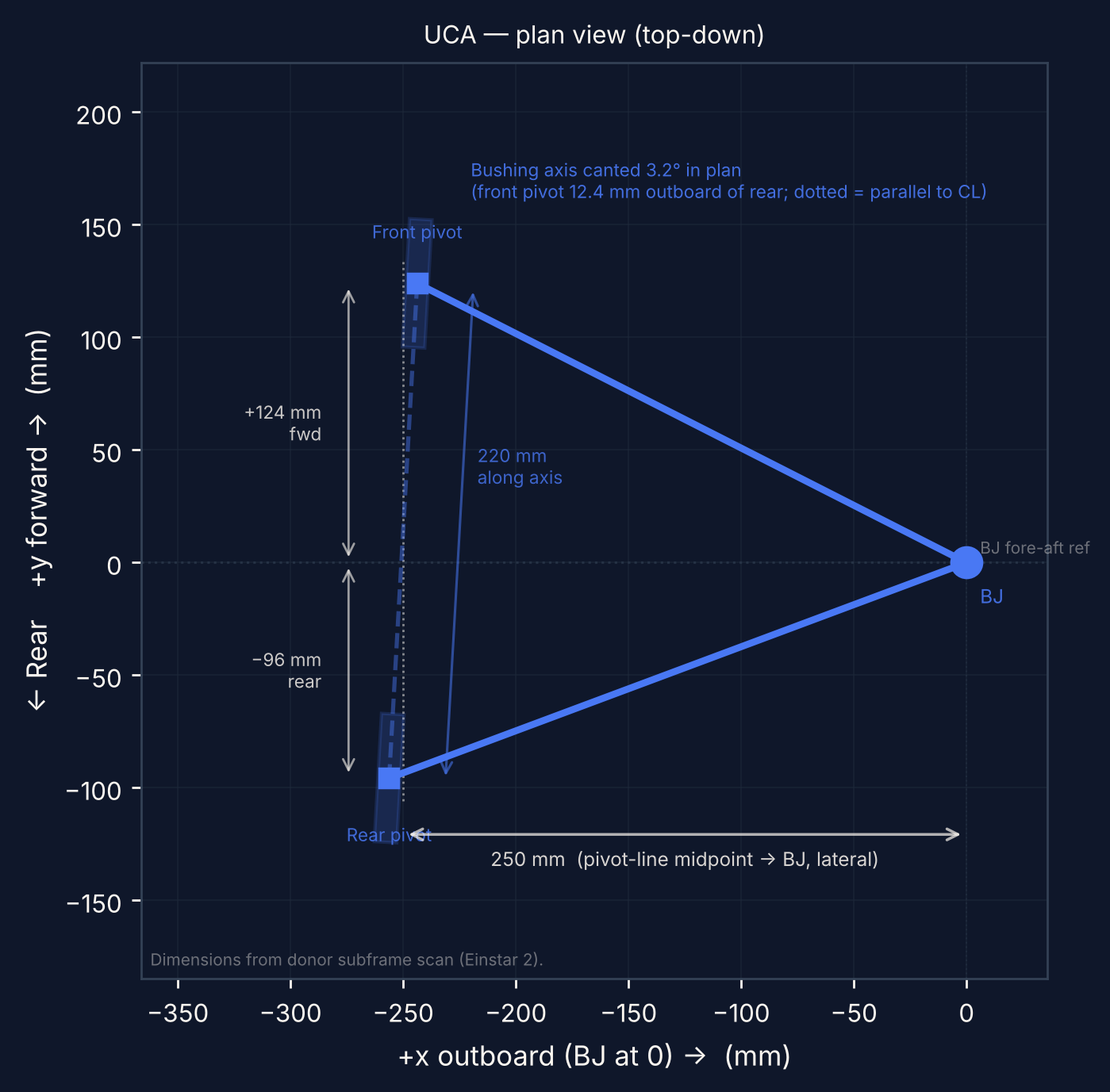
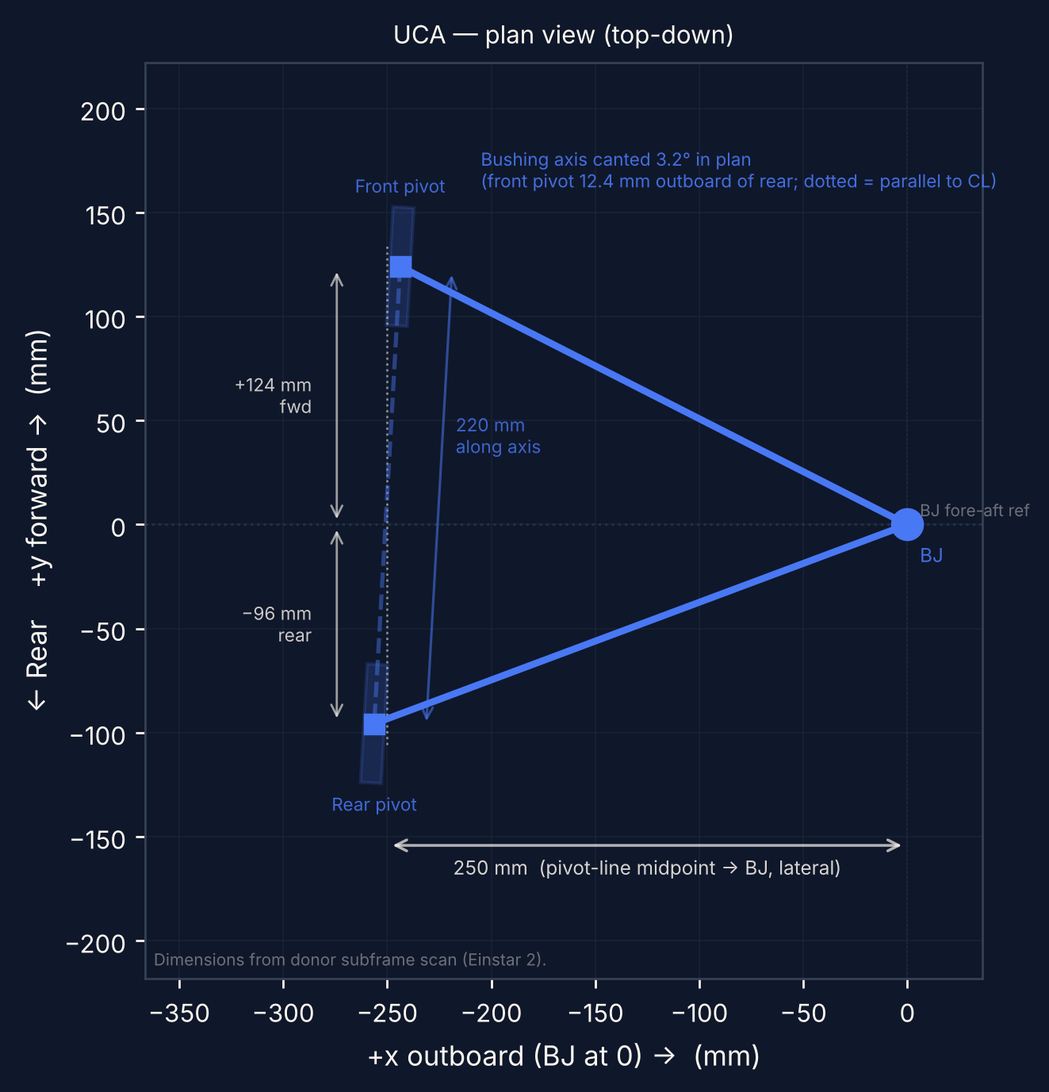
A40: fixes from the constants review
Rear-suspension rpm table renders (4 columns); tyre-poke numbers in the
narrowing analysis are derived; UCA caption and bracket positions
(pivot midpoint 273 mm, front 279 / rear 267 with the cant); plot
labels no longer sit on arrows or bushings.

Claude-Session: https://claude.ai/code/session_011vJqfmcNbUuKDjwhSF1hJ4

diff --git a/scripts/plot_geometry_reference.py b/scripts/plot_geometry_reference.py
@@ -2412,10 +2412,10 @@ def _draw_arm_core(
 
     # Inner pivot markers — rectangles representing bushing extents
     pw = SUSP["pivot_width"]  # visual lateral width for all pivots
-    for ip, tag, y_off, bush_len in zip(
+    for ip, tag, sgn, bush_len in zip(
         (inner_f, inner_r),
         ("Front pivot", "Rear pivot"),
-        (20, -28),
+        (1, -1),
         (bushing_lengths or (0, 0)),
     ):
         if bush_len > 0:
@@ -2434,14 +2434,17 @@ def _draw_arm_core(
             )
             ax.add_patch(rect)
         ax.plot(*ip, "s", color=color, markersize=7, zorder=5)
+        # Label just beyond the bushing end (front above, rear below), so it
+        # never sits on the bushing rectangle.
         ax.text(
             ip[0],
-            ip[1] + y_off,
+            ip[1] + sgn * (max(bush_len, 20) / 2 + 5),
             tag,
             fontsize=6.5,
             color=color,
             alpha=0.85,
             ha="center",
+            va="bottom" if sgn > 0 else "top",
         )
 
     # BJ marker
@@ -2598,7 +2601,7 @@ def plot_lca_plan():
     # ── dimension callouts ──────────────────────────────────────────
     lca_lat = abs(lca_f[0])  # 336.25 mm
     # Lateral: both pivots → BJ  (both at same inboard distance)
-    y_bot = lca_r[1] - 30  # below rear pivot
+    y_bot = lca_r[1] - SUSP["lca_r_bushing"] / 2 - 32  # below the rear pivot label
     ax.annotate(
         "",
         xy=(bj[0], y_bot),
@@ -2615,61 +2618,35 @@ def plot_lca_plan():
         alpha=0.85,
     )
 
-    # Fore-aft: front pivot rearward of BJ (−25 mm)
-    ax.annotate(
-        "",
-        xy=(lca_f[0] - 15, bj[1]),
-        xytext=(lca_f[0] - 15, lca_f[1]),
-        arrowprops=dict(arrowstyle="<->", color=TEXT, lw=0.8, alpha=0.6),
-    )
-    ax.text(
-        lca_f[0] - 28,
-        lca_f[1] / 2,
-        f"−{SUSP['lca_bj_fa']:.0f} mm\nrear",
-        fontsize=6.5,
-        color=TEXT,
-        ha="right",
-        va="center",
-        alpha=0.8,
-    )
-
-    # Fore-aft: rear pivot rearward of BJ (−348.5 mm)
+    # Fore-aft dimensions: one column each (arrow x), label placed left of
+    # its own arrow with a fixed gap in points, at a height where no other
+    # arrow passes, so no label sits on an arrow.
     rear_fa_total = SUSP["lca_bj_fa"] + SUSP["lca_fa_span"]
-    ax.annotate(
-        "",
-        xy=(lca_r[0] - 40, bj[1]),
-        xytext=(lca_r[0] - 40, lca_r[1]),
-        arrowprops=dict(arrowstyle="<->", color=TEXT, lw=0.8, alpha=0.6),
-    )
-    ax.text(
-        lca_r[0] - 53,
-        lca_r[1] / 2,
-        f"−{rear_fa_total:.0f} mm\nrear",
-        fontsize=6.5,
-        color=TEXT,
-        ha="right",
-        va="center",
-        alpha=0.8,
-    )
-
-    # Fore-aft span between pivots (= lca_fa_span = 322.5 mm)
-    mid_x = lca_r[0] - 70
-    ax.annotate(
-        "",
-        xy=(mid_x, lca_f[1]),
-        xytext=(mid_x, lca_r[1]),
-        arrowprops=dict(arrowstyle="<->", color=GOLD, lw=0.9, alpha=0.55),
-    )
-    ax.text(
-        mid_x - 8,
-        (lca_f[1] + lca_r[1]) / 2,
-        f"{SUSP['lca_fa_span']:.0f} mm\nspan",
-        fontsize=6.5,
-        color=GOLD,
-        ha="right",
-        va="center",
-        alpha=0.8,
-    )
+    x_front = lca_f[0] - 22   # −25 mm: front pivot rearward of BJ
+    x_rear = lca_r[0] - 95    # −348 mm: rear pivot rearward of BJ
+    x_span = lca_r[0] - 155   # 322 mm: span between pivots
+    for x_arr, y0, y1, y_lab, text, col, alpha in [
+        (x_front, bj[1], lca_f[1], lca_f[1] / 2, f"−{SUSP['lca_bj_fa']:.0f} mm\nrear", TEXT, 0.6),
+        (x_rear, bj[1], lca_r[1], lca_r[1] * 0.62, f"−{rear_fa_total:.0f} mm\nrear", TEXT, 0.6),
+        (x_span, lca_f[1], lca_r[1], (lca_f[1] + lca_r[1]) / 2, f"{SUSP['lca_fa_span']:.0f} mm\nspan", GOLD, 0.55),
+    ]:
+        ax.annotate(
+            "",
+            xy=(x_arr, y0),
+            xytext=(x_arr, y1),
+            arrowprops=dict(arrowstyle="<->", color=col, lw=0.8, alpha=alpha),
+        )
+        ax.annotate(
+            text,
+            xy=(x_arr, y_lab),
+            xytext=(-5, 0),
+            textcoords="offset points",
+            fontsize=6.5,
+            color=col,
+            ha="right",
+            va="center",
+            alpha=0.85,
+        )
 
     # BJ reference lines
     ax.axhline(bj[1], color=GRID2, lw=0.9, alpha=0.55, linestyle=":")
@@ -2682,7 +2659,7 @@ def plot_lca_plan():
     ax.set_ylabel("← Rear    +y forward →  (mm)")
     ax.set_aspect("equal")
     pad = 40
-    left_pad = 110  # extra room for inboard-side fa-offset labels
+    left_pad = 215  # extra room for inboard-side fa-offset labels
     all_x = [bj[0], lca_f[0], lca_r[0], cov_pt[0], arb_pt[0]]
     all_y = [bj[1] + 20, lca_f[1], lca_r[1], y_bot - 28, max(cov_pt[1], arb_pt[1]) + 45]
     ax.set_xlim(min(all_x) - left_pad, max(all_x) + pad)
@@ -2716,7 +2693,7 @@ def plot_uca_plan():
 
     uca_lat = abs(mid_lat)  # 250 mm, UBJ -> pivot-line midpoint
     span = np.linalg.norm(uca_f - uca_r)  # 220 mm along the axis
-    y_bot = uca_r[1] - 25
+    y_bot = uca_r[1] - SUSP["uca_bushing"] / 2 - 30  # below the rear pivot label
 
     # Lateral: pivot-line midpoint -> BJ
     ax.annotate(
@@ -2783,7 +2760,7 @@ def plot_uca_plan():
     ax.plot([mid_lat, mid_lat], [uca_r[1] - 10, uca_f[1] + 10], color=TEXT, lw=0.8,
             ls=":", alpha=0.5, zorder=2)
     ax.text(
-        mid_lat + 30,
+        mid_lat + 45,
         uca_f[1] + 36,
         f"Bushing axis canted {cant_deg:.1f}° in plan\n"
         f"(front pivot {2 * dlat:.1f} mm outboard of rear; dotted = parallel to CL)",

diff --git a/scripts/a40_constants.py b/scripts/a40_constants.py
@@ -182,6 +182,14 @@ def derive(i):
     put("a40_stock_outer_edge", (i["a40_stock_track"] + i["a40_stock_tyre_width"]) / 2, "mm", "locked", decimals=1)
     put("tyre_inner_edge", ht - i["tyre_width"] / 2, "mm", "working", decimals=1)
     put("a40_stock_inner_edge", (i["a40_stock_track"] - i["a40_stock_tyre_width"]) / 2, "mm", "locked", decimals=1)
+    put("tyre_outer_gain", oo - a40_out, "mm", "working", "Nominal outer-to-outer minus stock A40.",
+        decimals=0, signed=True)
+    put("tyre_outer_gain_exact", t + i["tyre_width"] - a40_out, "mm", "working",
+        "Exact-track outer-to-outer minus stock A40.", decimals=0, signed=True)
+    put("tyre_poke_rounding", abs(t - tn) / 2, "mm", "working",
+        "Per-side poke difference between the exact and nominal track.", decimals=0)
+    put("tyre_inner_shift", (i["a40_stock_track"] - i["a40_stock_tyre_width"]) / 2 - (ht - i["tyre_width"] / 2),
+        "mm", "working", "How much further inboard the inner tyre edge sits than stock.", decimals=0)
 
     # Rear
     rht = put("rear_half_track", i["rear_track"] / 2, "mm", "locked")
@@ -268,6 +276,13 @@ def derive_geometry(i, g):
         note="Roll travel at the nominal roll target + amplified road input.")
     put("travel_budget_hi", g["roll_travel_wheel"]["value"] + amp_hi, "mm", decimals=0,
         note="Roll travel at the nominal roll target + amplified road input.")
+    half = g["uca_cant_offset"]["value"] / 2
+    put("uca_cant_half", half, "mm", decimals=1,
+        note="Half the plan-cant offset: each UCA pivot sits this far either side of the pivot-line midpoint.")
+    put("uca_pivot_front", g["uca_pivot"]["value"] + half, "mm", decimals=0,
+        note="Front UCA pivot from CL (midpoint + half the cant offset).")
+    put("uca_pivot_rear", g["uca_pivot"]["value"] - half, "mm", decimals=0,
+        note="Rear UCA pivot from CL (midpoint − half the cant offset).")
     put("roll_arm_lo", i["cg_height"] - g["roll_axis_rc_hi"]["value"], "mm", decimals=0,
         note="CG height − roll-axis height (rear RC high end).")
     put("roll_arm_hi", i["cg_height"] - g["roll_axis_rc_lo"]["value"], "mm", decimals=0,
@@ -482,6 +497,9 @@ def run_self_tests():
         ("shaft 5.4, joints 2.4", d["shaft_angle"].raw() == "5.4" and d["ujoint_front"].raw() == "2.4"),
         ("Ackermann 17.40", d["ackermann_knuckle"].raw() == "17.40"),
         ("poke 35 (37 exact)", v("tyre_poke") == 35 and v("tyre_poke_exact") == 37),
+        ("outer +70 (+74 exact), rounding 2, inner shift 35",
+         d["tyre_outer_gain"].raw() == "+70" and d["tyre_outer_gain_exact"].raw() == "+74"
+         and v("tyre_poke_rounding") == 2 and v("tyre_inner_shift") == 35),
         ("format: half-up, minus sign", format_number(0.125, 2) == "0.13" and format_number(-19.1, 1) == "−19.1"
          and format_number(15.8, 1, signed=True) == "+15.8" and format_number(2886, round_to=10) == "2890"),
     ]

diff --git a/tickets/A40-008-use-constants.md b/tickets/A40-008-use-constants.md
@@ -1,7 +1,7 @@
 ---
 id: A40-008
 title: Replace hard-coded numbers with constants
-status: in-progress
+status: review
 owner: constants agent
 reviewer: independent reviewer agent (2026-10-24, did not implement)
 blocked_by: A40-007
@@ -11,7 +11,7 @@ blocked_by: A40-007
 All of content/a40/*.md, scripts/plot_geometry_reference.py, scripts/a40-*.py, src/blog/roadmapData.ts
 
 ## Acceptance criteria
-- [ ] Every number listed in constants.yaml is a placeholder in the posts (grep for the literal values returns only the YAML, generated JSON, and historical log entries where the old value is the point)
+- [x] Every number listed in constants.yaml is a placeholder in the posts (grep for the literal values returns only the YAML, generated JSON, and historical log entries where the old value is the point)
 - [x] Rendered posts read the same as before apart from intended corrections (diff the rendered text)
 - [x] Plots regenerate identically or with intended changes only
 
@@ -39,3 +39,15 @@ Independent reviewer, 2026-10-24 (working tree 6d0da56, clean).
    then write `stock: {{tyre_outer_gain}}, {{tyre_poke}}/side`, `the table gives {{tyre_outer_gain_exact:raw}}`, `the {{tyre_poke_rounding}} difference`, `reaches ~{{tyre_inner_shift}} further *inboard*`. Run `npm run constants`, `npm run check-constants`, and re-run the ET 38→40 test in a scratch copy (should read +70 / 35 / 0 mm / 37 at ET40).
 2. content/a40/narrowing-analysis.md:80 "higher ET (ET45 = −7 mm/side …), narrower tyre (195 = −5 mm/side)" is relative to ET38/205. Fix: make it independent of the inputs, e.g. "higher ET (each extra mm of ET moves the tyre 1 mm inboard; check caliper clearance), narrower tyre (each 10 mm narrower brings the outer edge in 5 mm/side)".
 3. (minor) content/a40/geometry-design-reference.md:109 img alt "Body roll at 0.8 g" → "Body roll at {{lateral_accel}}".
+
+## Fixes after review (constants agent, 2026-10-24)
+Working tree, not committed.
+
+1. **narrowing-analysis:72 dependent literals** → new derived values in `derive()` (scripts/a40_constants.py, after `tyre_inner_edge`): `tyre_outer_gain` (oo − stock outer, signed), `tyre_outer_gain_exact` (exact track, signed), `tyre_poke_rounding` (|t − tn| / 2), `tyre_inner_shift` (stock inner edge − new inner edge). The post now reads `stock: {{tyre_outer_gain}}, {{tyre_poke}}/side`, `the table gives {{tyre_outer_gain_exact:raw}}`, `the {{tyre_poke_rounding}}/side difference`, `~{{tyre_inner_shift}} further *inboard*`. New self-test: "+70 (+74 exact), rounding 2, inner shift 35" (18 self-tests now).
+2. **narrowing-analysis:80** → input-independent wording: "higher ET (each extra mm of ET moves the tyre 1 mm inboard per side; check caliper clearance), narrower tyre (each 10 mm narrower brings the outer edge in 5 mm per side)".
+3. **geometry-design-reference:109** img alt → "Body roll at {{lateral_accel}} vs CG height…" (renders "0.8 g").
+4. (from A40-009 optional note) UCA bracket position: new derived `uca_cant_half` (6.2 mm), `uca_pivot_front` (279 mm), `uca_pivot_rear` (267 mm) in `derive_geometry()` from `uca_pivot` and `uca_cant_offset`. narrowing-analysis step 3 now says 273 mm is the pivot-line midpoint, front pivot 279 / rear 267, "do not build both brackets at 273"; frame-design "Front inner pivots" row and design-overview front-suspension row say "pivot-line midpoint, front/rear ±6.2 mm with the plan cant".
+
+**ET 38→40 sensitivity re-run** (scratch copy, node_modules symlinked, `wheel_et: 40`, full plot run exit 0, rendered through `parsePost()`): narrowing-analysis reads "+70 mm, 35 mm/side … exact 1230 mm track the table gives +70 (35 mm/side: outer edge 717.5 vs 682.5) … the 0 mm/side difference … ~37 mm further inboard (inner edge 512.5 vs 549.5)". Self-consistent (717.5 − 682.5 = 35, 549.5 − 512.5 = 37). The real repo still has ET 38 (+70 / +74 / 2 / 35, as before).
+
+**Commands (real repo, all exit 0):** `npm run constants`; `python3 scripts/plot_geometry_reference.py` (only lca_plan.png and uca_plan.png changed, from the A40-009 label fixes); `npm run check-constants` (752 placeholders, 18 posts); `python3 scripts/a40_constants.py --test` (18 ok); `node scripts/check-roadmap-plan.mjs` (0 FAIL); `npm run lint`; `npm run build`. Rendered-post link check: 156 links, 0 broken; no `{{` left in rendered text.

diff --git a/content/a40/narrowing-analysis.md b/content/a40/narrowing-analysis.md
@@ -69,7 +69,7 @@ Outer-to-outer minus stock A40 ({{a40_stock_outer}}). Per-side figure is half th
 | 195 mm | +90 | +80 | +64 | +50 |
 | **205 mm (chosen)** | +100 | +90 | **+74** | +60 |
 
-**Tyre poke: ~{{tyre_poke:raw}} mm per side outside the stock A40 tyres.** Outer-to-outer is {{front_track_nominal:raw}} + {{tyre_width:raw}} = **{{tyre_outer_front}}** vs {{a40_stock_track:raw}} + {{a40_stock_tyre_width:raw}} = {{a40_stock_outer}} stock: +70 mm, {{tyre_poke}}/side. This is the figure used across the build posts. At the exact {{front_track}} track the table gives +74 ({{tyre_poke_exact}}/side: outer edge {{tyre_outer_edge}} from CL vs {{a40_stock_outer_edge}} stock); the 2 mm difference is inside the ET and donor-track uncertainty. The tyre also reaches ~35 mm further *inboard* than the stock tyre (inner edge {{tyre_inner_edge:raw}} vs {{a40_stock_inner_edge}}). The earlier version of this table showed ~10 mm/side; every cell carried a +25 mm error. Nothing in the {{front_narrowing}} narrowing gets the outer edge back to stock: no ET in the table brings a 205 under +60.
+**Tyre poke: ~{{tyre_poke:raw}} mm per side outside the stock A40 tyres.** Outer-to-outer is {{front_track_nominal:raw}} + {{tyre_width:raw}} = **{{tyre_outer_front}}** vs {{a40_stock_track:raw}} + {{a40_stock_tyre_width:raw}} = {{a40_stock_outer}} stock: {{tyre_outer_gain}}, {{tyre_poke}}/side. This is the figure used across the build posts. At the exact {{front_track}} track the table gives {{tyre_outer_gain_exact:raw}} ({{tyre_poke_exact}}/side: outer edge {{tyre_outer_edge}} from CL vs {{a40_stock_outer_edge}} stock); the {{tyre_poke_rounding}}/side difference is inside the ET and donor-track uncertainty. The tyre also reaches ~{{tyre_inner_shift}} further *inboard* than the stock tyre (inner edge {{tyre_inner_edge:raw}} vs {{a40_stock_inner_edge}}). The earlier version of this table showed ~10 mm/side; every cell carried a +25 mm error. Nothing in the {{front_narrowing}} narrowing gets the outer edge back to stock: no ET in the table brings a 205 under +60.
 
 This is the main fitment risk. Check against the scanned body envelope:
 
@@ -77,7 +77,7 @@ This is the main fitment risk. Check against the scanned body envelope:
 2. Sweep full bump with wheels straight. Watch the outer shoulder against the fender lip.
 3. Sweep full lock at ride height. Watch the inner shoulder against the inner arch and frame rail (the tyre now reaches further inboard).
 4. Combine full lock + full bump (see caveat below).
-5. If it does not fit, in order of preference: higher ET (ET45 = −7 mm/side, check caliper clearance), narrower tyre (195 = −5 mm/side), small fender flare or lip roll. More narrowing would move the rack, pickups and RC and is the last resort.
+5. If it does not fit, in order of preference: higher ET (each extra mm of ET moves the tyre 1 mm inboard per side; check caliper clearance), narrower tyre (each 10 mm narrower brings the outer edge in 5 mm per side), small fender flare or lip roll. More narrowing would move the rack, pickups and RC and is the last resort.
 
 ---
 
@@ -106,7 +106,7 @@ Near-zero scrub means less kickback and less self-centring under braking; the ex
 
 1. Build to the hub face ({{front_hub_face}} from CL), not to "track". The scanned LBJ/UBJ offsets are measured from the hub-face plane and do not change with narrowing.
 2. LCA brackets: both pivots at {{lca_pivot}} from CL, 322.5 mm apart fore-aft.
-3. UCA brackets: {{uca_pivot:0}} from CL ({{uca_lca_offset}} outboard of the LCA pivots). Check clearance to the SR20 valve cover, exhaust manifold side and inner fender before committing.
+3. UCA brackets: {{uca_pivot:0}} from CL to the pivot-line midpoint ({{uca_lca_offset}} outboard of the LCA pivots). With the {{uca_plan_cant}} plan cant the front pivot sits {{uca_cant_half}} outboard of that ({{uca_pivot_front}}) and the rear pivot {{uca_cant_half}} inboard ({{uca_pivot_rear}}); do not build both brackets at {{uca_pivot:raw:0}}. Check clearance to the SR20 valve cover, exhaust manifold side and inner fender before committing.
 4. Fixture the UCA brackets off the actual arm with a bar through the bushing axis so the 3.5° tilt and the {{uca_plan_cant}} plan cant are captured. ±1 mm on pivot centres is necessary but not sufficient: orientation errors matter as much.
 
 ---

diff --git a/tickets/A40-009-consistency-review.md b/tickets/A40-009-consistency-review.md
@@ -1,7 +1,7 @@
 ---
 id: A40-009
 title: Independent cross-post consistency review
-status: in-progress
+status: review
 owner: consistency-review agent (2026-10-24)
 reviewer: independent reviewer agent (2026-10-24, did not edit any A40 file)
 blocked_by: A40-001 … A40-008
@@ -11,7 +11,7 @@ blocked_by: A40-001 … A40-008
 Each fix agent saw only its own files. Someone needs to read the whole build log as the owner will use it.
 
 ## Acceptance criteria
-- [ ] Every A40 post read end to end; any number that disagrees with constants.yaml listed and fixed
+- [x] Every A40 post read end to end; any number that disagrees with constants.yaml listed and fixed
 - [x] Physics spot-checks redone by hand: ride frequency, roll angle, LLTD, damping, rpm table, U-joint angles, track/ET, tyre OD
 - [x] No mention of Ford 9", four-link, live-axle coilovers or 950 mm spring base except as history
 - [x] No pronoun or name errors; first-person voice kept in log posts
@@ -102,3 +102,16 @@ Independent reviewer, 2026-10-24 (working tree 6d0da56, clean). Rendered all 18 
 3. Dependent literals in narrowing-analysis:72/:80 (+74, 2 mm, ~35 mm inboard, ET45 −7) are tracked in A40-008 Failed checks; fix them there.
 
 Optional, not blocking: lca_plan.png "−25 mm rear" and "−348 mm rear" dimension labels sit on top of their arrows, and uca_plan.png's "Rear pivot" label is half under the bushing rectangle; narrowing-analysis "UCA brackets: 273 mm from CL" could add "(pivot-line midpoint; front pivot +6.2, rear −6.2 mm with the 3.2° cant)" so nobody builds both brackets at 273.
+
+## Fixes after review (consistency-review agent, 2026-10-24)
+Working tree, not committed.
+
+1. **rear-suspension rpm table**: separator row now `|---|---|---|---|` (4 cells, matching the header). Re-rendered through `parsePost()`: a `<table>` with 4 header cells (Final drive / CD009 5th (1.000) / CD009 6th (0.794) / Z32 5th (0.759, verify)) and 3 body rows (4.44: 3640/2890/2760; 4.10: 3360/2670/2550; 3.91: 3200/2540/2430); no raw `|---` left in the page HTML.
+2. **donor-geometry-dimensions uca_plan caption**: "both pivots 110 mm either side of the pivot-line midpoint, along the bushing axis (220 mm c-to-c)". The same error was in the Arm symmetry table row (line 89, "±110 mm from BJ"), now "±110 mm from the pivot-line midpoint".
+3. **narrowing-analysis dependent literals**: fixed under A40-008 "Fixes after review" (new derived `tyre_outer_gain`, `tyre_outer_gain_exact`, `tyre_poke_rounding`, `tyre_inner_shift`; ET/width sentence reworded; ET40 test passes).
+4. **Optional notes, done:**
+   - `lca_plan.png`: the three fore-aft dimensions now each have their own column (−25 mm at pivot −22, −348 mm at pivot −95, 322 mm span at pivot −155) and each label sits left of its own arrow with a fixed 5 pt gap, so no label sits on an arrow; left padding widened to fit.
+   - `_draw_arm_core` (shared by lca_plan and uca_plan): "Front pivot" / "Rear pivot" labels sit beyond the bushing ends (front above, rear below), not on the bushing; lateral dimension lines moved down to clear the rear label; uca_plan cant note moved right to clear the "Front pivot" label. Both PNGs opened after the full regeneration: no overlaps.
+   - UCA brackets: new derived `uca_cant_half` / `uca_pivot_front` / `uca_pivot_rear` (6.2 / 279 / 267 mm). narrowing-analysis step 3, frame-design and design-overview now say 273 mm is the pivot-line midpoint with the front/rear pivots ±6.2 mm.
+
+Commands (all exit 0): `npm run constants`, `python3 scripts/plot_geometry_reference.py` (only lca_plan.png, uca_plan.png changed), `npm run check-constants`, `python3 scripts/a40_constants.py --test` (18 ok), `node scripts/check-roadmap-plan.mjs` (0 FAIL), `npm run lint`, `npm run build`. Link check over rendered posts: 156, 0 broken.

diff --git a/content/a40/donor-geometry-dimensions.md b/content/a40/donor-geometry-dimensions.md
@@ -86,7 +86,7 @@ Ball-joint positions and KPI/caster are fixed by the casting and do not change w
 | Inner pivots from CL, stock | 378.0 mm | **{{uca_pivot_miata:0}}** | scanned | {{front_hub_face_miata:raw}} − 382 (pivot line is 382 mm in from the hub face). **{{uca_lca_offset}} outboard of the LCA pivots** (normal short-long-arm layout). |
 | Inner pivots from CL, A40 | - | **{{uca_pivot:0}}** | build | {{uca_pivot_miata:raw:0}} − {{front_narrowing:raw}} |
 | Effective length (UBJ → pivot line, lateral) | - | **250 mm** | derived | 382 − 132 |
-| Arm symmetry | asymmetric (+113.5 / −143.5) | **symmetric, ±110 mm from BJ** | scanned | 220 mm c-to-c along the bushing axis |
+| Arm symmetry | asymmetric (+113.5 / −143.5) | **symmetric, ±110 mm from the pivot-line midpoint** | scanned | 220 mm c-to-c along the bushing axis |
 | Front pivot height above LCA pivot | 192 mm | **181.78 mm** | scanned | Centre + 6.78 mm |
 | Rear pivot height above LCA pivot | 170 mm | **168.22 mm** | scanned | Centre − 6.78 mm. Total tilt 13.56 mm over 220 mm ≈ 3.5° front-high. |
 | Pivot centre height above LCA pivot | 181 mm | **175 mm** | derived | (front + rear) / 2 |
@@ -124,7 +124,7 @@ The front-view four-bar is set by four points: LCA pivot, UCA pivot, LBJ and UBJ
 
 <figure style="margin:1rem 0">
   <img src="/assets/projects/a40-austin/blog/plots/uca_plan.png" alt="UCA plan view schematic" style="width:100%" />
-  <figcaption>UCA plan view (top-down). BJ at origin, +x outboard, +y forward. Symmetric arm: both pivots 110 mm from the BJ along the bushing axis (220 mm c-to-c), 57 mm bushings drawn along that axis. Lateral arm length (UBJ -> pivot-line midpoint) = 250 mm; the UCA pivot line sits {{uca_lca_offset}} outboard of the LCA pivot line. The axis is drawn at its plan cant, {{uca_plan_cant}} (front pivot {{uca_cant_offset}} outboard of the rear; dotted line = parallel to the CL), so the pivots sit +124 mm and −96 mm fore-aft of the BJ. The cant is inferred from the scanned UBJ position and the symmetric arm, not measured directly (see the [narrowing analysis](./narrowing-analysis#scanned-donor-geometry-what-it-changes)). The axis is also tilted ~3.5° front-high in side view.</figcaption>
+  <figcaption>UCA plan view (top-down). BJ at origin, +x outboard, +y forward. Symmetric arm: both pivots 110 mm either side of the pivot-line midpoint, along the bushing axis (220 mm c-to-c), 57 mm bushings drawn along that axis. Lateral arm length (UBJ -> pivot-line midpoint) = 250 mm; the UCA pivot line sits {{uca_lca_offset}} outboard of the LCA pivot line. The axis is drawn at its plan cant, {{uca_plan_cant}} (front pivot {{uca_cant_offset}} outboard of the rear; dotted line = parallel to the CL), so the pivots sit +124 mm and −96 mm fore-aft of the BJ. The cant is inferred from the scanned UBJ position and the symmetric arm, not measured directly (see the [narrowing analysis](./narrowing-analysis#scanned-donor-geometry-what-it-changes)). The axis is also tilted ~3.5° front-high in side view.</figcaption>
 </figure>
 
 <figure style="margin:1rem 0">

diff --git a/content/a40/design-overview.md b/content/a40/design-overview.md
@@ -14,7 +14,7 @@ The integration view: one line per system, then the clearance problems I have to
 | System | Plan | Detail |
 |---|---|---|
 | Frame | Custom ladder: two main rails plus crossmembers, built around the suspension and drivetrain pickups. Body mount positions measured off the original A40 frame. | [frame design](./frame-design) · [finalization](./design-finalization) · [jig](./frame-jig) |
-| Front suspension | Narrowed Miata NA double wishbone, inboard pickups moved {{front_narrowing}} per side (LCA {{lca_pivot}}, UCA {{uca_pivot:0}} from centreline). | [narrowing](./narrowing-analysis) · [geometry](./geometry-design-reference) · [tuning](./suspension-tuning) |
+| Front suspension | Narrowed Miata NA double wishbone, inboard pickups moved {{front_narrowing}} per side (LCA {{lca_pivot}}, UCA {{uca_pivot:0}} from centreline to the pivot-line midpoint, front/rear pivots ±{{uca_cant_half}} with the plan cant). | [narrowing](./narrowing-analysis) · [geometry](./geometry-design-reference) · [tuning](./suspension-tuning) |
 | Rear suspension | Narrowed Miata NA IRS, every inboard pickup moved ~{{rear_narrowing_lo:raw}}–{{rear_narrowing_hi}} per side (measure the donor) for the locked {{rear_track}} track. RX-8 diff on custom chassis mounts, custom half-shafts. | [rear suspension](./rear-suspension) |
 | Engine + gearbox | SR20DET on a CD009 or Z32 (OEM 5-speed rejected). Tunnel sized to the CD009. Engine/gearbox {{engine_angle}} down at the rear (tail-down), RX-8 pinion parallel. | [motor selection](./motor-selection) |
 | Driveshaft | One-piece, {{shaft_drop}} drop over {{shaft_length}}: shaft {{shaft_angle}}, both U-joints {{ujoint_front}}. The diff is sprung, so the angles don't change with travel. | [rear suspension](./rear-suspension#driveshaft-and-u-joint-angles) |

diff --git a/content/a40/frame-design.md b/content/a40/frame-design.md
@@ -16,7 +16,7 @@ The frame is a ladder (two main rails plus crossmembers) designed from scratch i
 | Wheelbase | {{wheelbase}} (locked, stock A40) | [constants](./build-constants) |
 | Front track | ~{{front_track_nominal}}: hub face {{front_hub_face}} from CL ({{front_narrowing}}/side narrowing) | [narrowing](./narrowing-analysis) |
 | Rear track | {{rear_track}}: hub face {{rear_hub_face}} from CL | [rear suspension](./rear-suspension) |
-| Front inner pivots | LCA {{lca_pivot}}, UCA {{uca_pivot:0}} from CL; fore/aft spacing and heights kept from the donor | [donor dimensions](./donor-geometry-dimensions) |
+| Front inner pivots | LCA {{lca_pivot}}, UCA {{uca_pivot:0}} from CL (UCA to the pivot-line midpoint; with the {{uca_plan_cant}} plan cant the front/rear pivots sit ±{{uca_cant_half}} either side, {{uca_pivot_front:raw}}/{{uca_pivot_rear}}); fore/aft spacing and heights kept from the donor | [donor dimensions](./donor-geometry-dimensions) |
 | Rear inner pivots | Every Miata rear inboard pickup (toe links included) moved inboard by ~{{rear_narrowing_lo:raw}}–{{rear_narrowing_hi}}/side (measure the donor) | [rear suspension](./rear-suspension) |
 | Diff | RX-8, on custom frame mounts, pinion parallel to the gearbox | [rear suspension](./rear-suspension) |
 | Engine + gearbox | SR20DET, CD009 or Z32; tunnel sized to the CD009; {{engine_angle}} tail-down | [motor selection](./motor-selection) |

diff --git a/tickets/README.md b/tickets/README.md
@@ -64,8 +64,8 @@ _Filled by the reviewer: what was checked, how, and the result._
 | [A40-005](./A40-005-electrical-dash.md) | Electrical, CAN gateway and dash | in-progress |
 | [A40-006](./A40-006-roadmap-overview.md) | Roadmap and overview posts | done |
 | [A40-007](./A40-007-shared-constants.md) | Shared constants file (YAML → Python → JSON → posts) | done |
-| [A40-008](./A40-008-use-constants.md) | Replace hard-coded numbers with constants | in-progress (review: 2 literal fixes in narrowing-analysis) |
-| [A40-009](./A40-009-consistency-review.md) | Independent cross-post consistency review | in-progress (review: broken rpm table in rear-suspension) |
+| [A40-008](./A40-008-use-constants.md) | Replace hard-coded numbers with constants | review (fixes applied) |
+| [A40-009](./A40-009-consistency-review.md) | Independent cross-post consistency review | review (fixes applied) |
 | [A40-010](./A40-010-build-and-visual-check.md) | Build, lint, links and visual check | todo |
 | [A40-011](./A40-011-ship.md) | PR, preview check, merge, live check | todo |
 | [A40-012](./A40-012-owner-decisions.md) | Owner measurements and decisions | blocked |

diff --git a/content/a40/geometry-design-reference.md b/content/a40/geometry-design-reference.md
@@ -106,7 +106,7 @@ $h_{RA}$ is the roll-axis height under the CG: front RC + {{rear_weight_fraction
 CG uncertainty matters as much as the rear RC: at {{cg_height_low:raw}} / {{cg_height_high}}, springs-only roll is {{roll_springs_cg_low}} / {{roll_springs_cg_high}} and the ARB need for {{roll_target_nom}} is {{arb_add_cg_low:raw}} / {{arb_add_cg_high}}.
 
 <figure>
-  <img src="/assets/projects/a40-austin/blog/plots/roll_vs_cg.png" alt="Body roll at 0.8 g vs CG height for springs only and added ARB stiffness" />
+  <img src="/assets/projects/a40-austin/blog/plots/roll_vs_cg.png" alt="Body roll at {{lateral_accel}} vs CG height for springs only and added ARB stiffness" />
   <figcaption>Roll at {{lateral_accel}} vs CG height. Lines at rear RC {{rear_rc_nom}}, bands span rear RC {{rear_rc_lo:raw}}-{{rear_rc_hi}}. About {{arb_add_rc_nom_nom:0}} of bar stiffness puts the estimated CG at {{roll_target_nom}}.</figcaption>
 </figure>
 

diff --git a/content/a40/rear-suspension.md b/content/a40/rear-suspension.md
@@ -59,7 +59,7 @@ Miata rears are sized for a ~1000 kg car closer to 50/50; the A40 is ~{{operatin
 - **Ratio:** the stock RX-8 6-speed final drive is about {{final_drive}} (verify on the unit). Engine speed at {{reference_speed}} on {{tyre_size}} ({{tyre_circumference}} circumference):
 
 | Final drive | CD009 5th ({{gear_5th}}) | CD009 6th ({{gear_6th}}) | Z32 5th ({{gear_z32_top}}, verify) |
-|---|---|---|
+|---|---|---|---|
 | {{final_drive}} | {{rpm_fd_5th}} | {{rpm_fd_6th}} | {{rpm_fd_z32_top}} |
 | {{final_drive_alt1}} | {{rpm_alt1_5th}} | {{rpm_alt1_6th}} | {{rpm_alt1_z32_top}} |
 | {{final_drive_alt2}} | {{rpm_alt2_5th}} | {{rpm_alt2_6th}} | {{rpm_alt2_z32_top}} |
